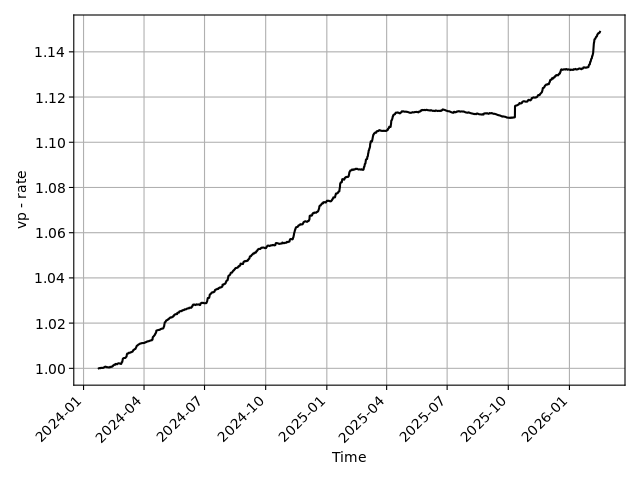
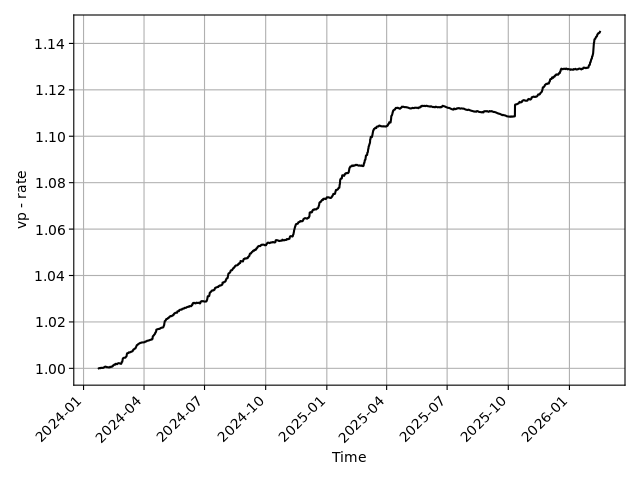
Using cumulative product in the graph

diff --git a/btcusd/dyn calc/6. releverage A9 rate6/plot_xcp.py b/btcusd/dyn calc/6. releverage A9 rate6/plot_xcp.py
@@ -17,7 +17,7 @@ with lzma.open('detailed-output.json.xz', 'r') as f:
 t = np.array([d['t'] for d in data])
 vp = np.array([(d['xcp'] + 1) / 2 for d in data])
 ri = np.array([d['boost_rate'] for d in data])
-ri = 1 + np.array([0] + list(np.cumsum(ri[:-1] * (t[1:] - t[:-1]))))
+ri = [1] + list(np.cumprod(1 + ri[:-1] * (t[1:] - t[:-1])))
 
 t = [datetime.fromtimestamp(_t) for _t in t[::STEP]]
 vp = vp[::STEP] / ri[::STEP]
